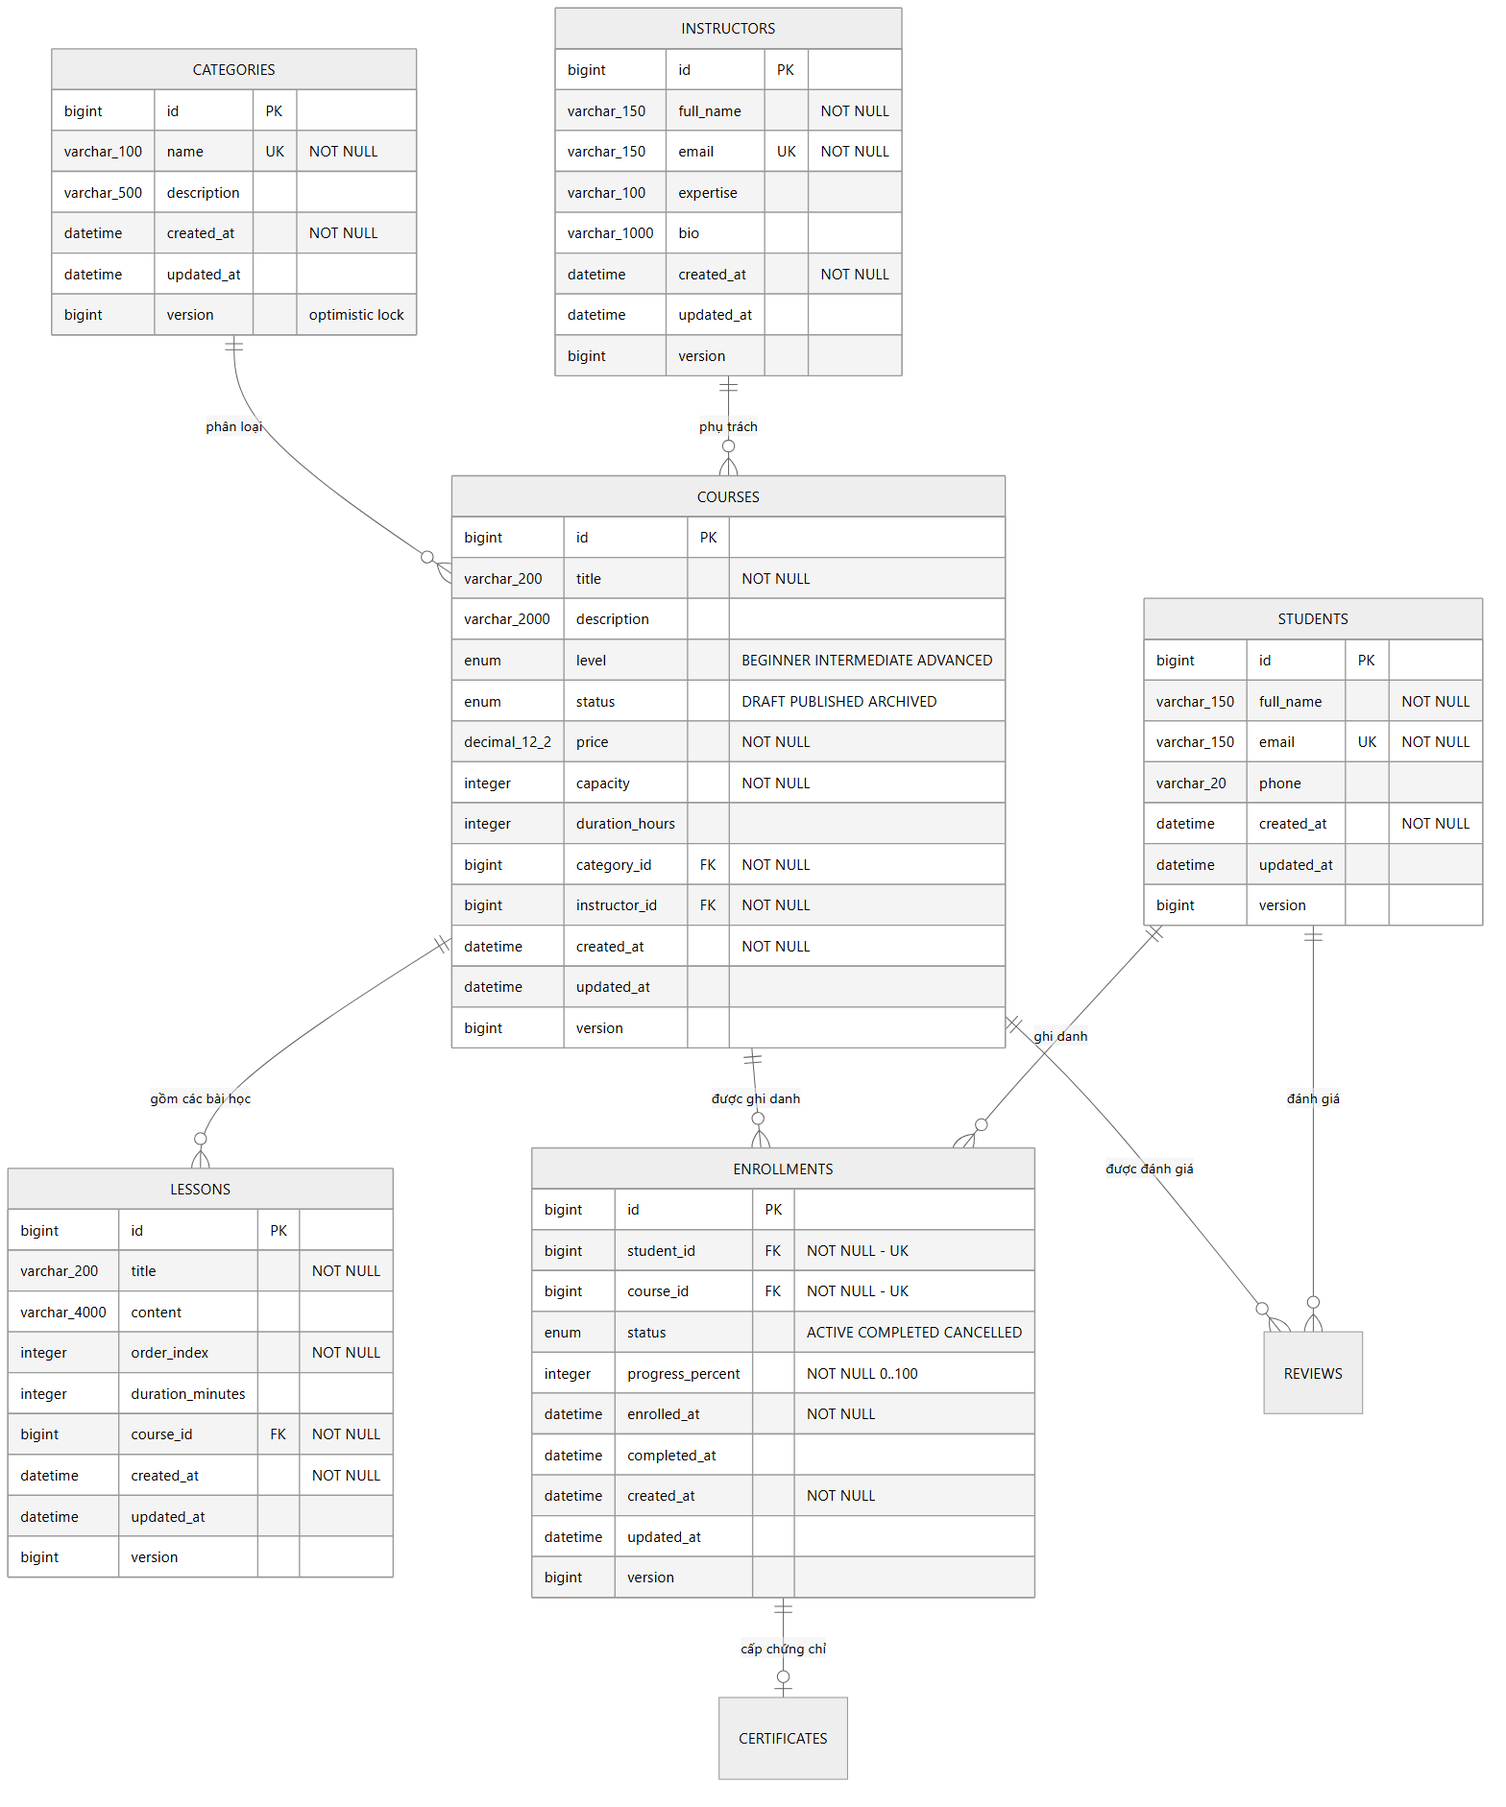
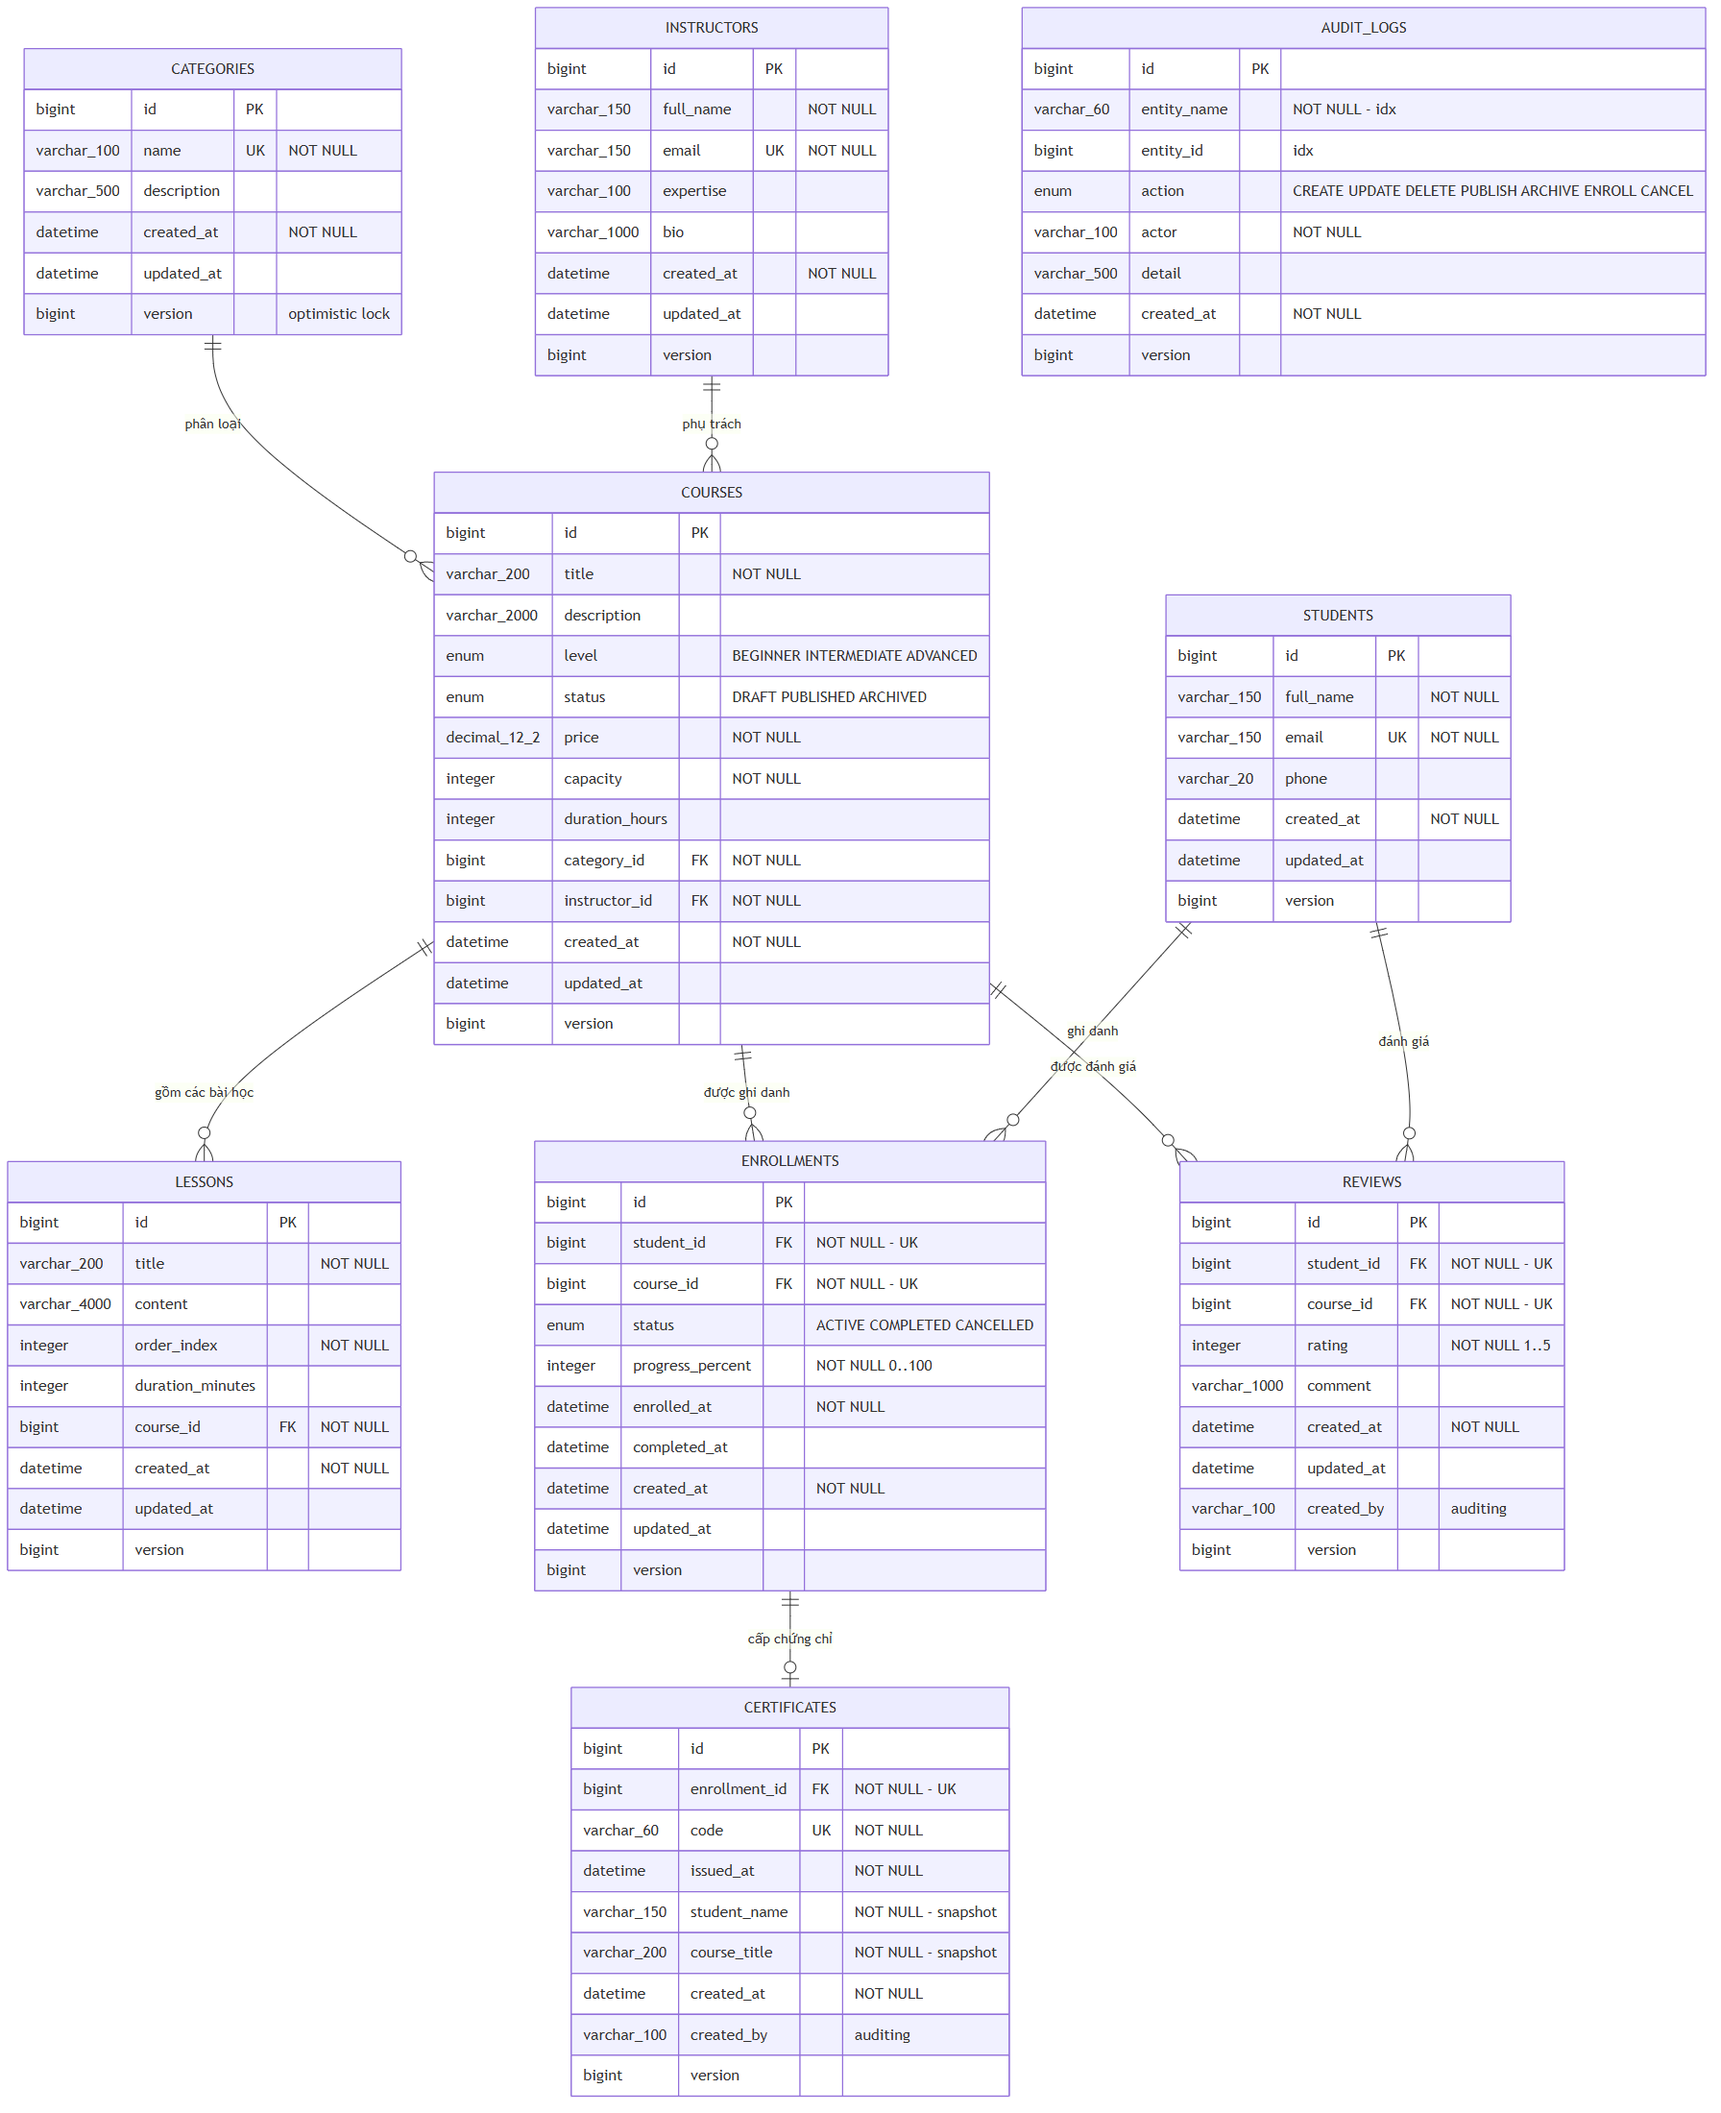
fix(docs): bo sung 3 bang thieu vao so do ERD
reviews, certificates va audit_logs truoc day chi xuat hien o dong quan he
nen render ra o rong; audit_logs khong co trong so do. Nay du 9 bang khop
voi schema.sql.

diff --git a/docs/database-schema.md b/docs/database-schema.md
@@ -89,6 +89,41 @@ erDiagram
         datetime   updated_at
         bigint     version
     }
+
+    REVIEWS {
+        bigint        id PK
+        bigint        student_id FK "NOT NULL - UK"
+        bigint        course_id FK "NOT NULL - UK"
+        integer       rating "NOT NULL 1..5"
+        varchar_1000  comment
+        datetime      created_at "NOT NULL"
+        datetime      updated_at
+        varchar_100   created_by "auditing"
+        bigint        version
+    }
+
+    CERTIFICATES {
+        bigint        id PK
+        bigint        enrollment_id FK "NOT NULL - UK"
+        varchar_60    code UK "NOT NULL"
+        datetime      issued_at "NOT NULL"
+        varchar_150   student_name "NOT NULL - snapshot"
+        varchar_200   course_title "NOT NULL - snapshot"
+        datetime      created_at "NOT NULL"
+        varchar_100   created_by "auditing"
+        bigint        version
+    }
+
+    AUDIT_LOGS {
+        bigint       id PK
+        varchar_60   entity_name "NOT NULL - idx"
+        bigint       entity_id "idx"
+        enum         action "CREATE UPDATE DELETE PUBLISH ARCHIVE ENROLL CANCEL"
+        varchar_100  actor "NOT NULL"
+        varchar_500  detail
+        datetime     created_at "NOT NULL"
+        bigint       version
+    }
 ```
 
 ### Tóm tắt quan hệ

diff --git a/README.md b/README.md
@@ -169,7 +169,7 @@ Lỗi trả về `ErrorResponse { status, error, message, path, fieldErrors }` q
 
 | Tài liệu | Nội dung |
 |---|---|
-| [`docs/database-schema.md`](docs/database-schema.md) | Sơ đồ ERD, mô tả chi tiết 6 bảng, ràng buộc, lý do thiết kế, đề xuất chỉ mục |
+| [`docs/database-schema.md`](docs/database-schema.md) | Sơ đồ ERD, mô tả chi tiết 9 bảng, ràng buộc, lý do thiết kế, đề xuất chỉ mục |
 | [`docs/architecture.md`](docs/architecture.md) | Sơ đồ tầng, sơ đồ package, sơ đồ tuần tự luồng ghi danh, danh mục API, cấu hình profile, triển khai |
 | [`docs/schema.sql`](docs/schema.sql) | DDL đầy đủ — **sinh trực tiếp từ metadata Hibernate**, không viết tay |
 | [`docs/toi-uu-hieu-nang.md`](docs/toi-uu-hieu-nang.md) | Các lỗi đã sửa kèm **số liệu đo trước/sau**, và các hạn chế đã biết |
